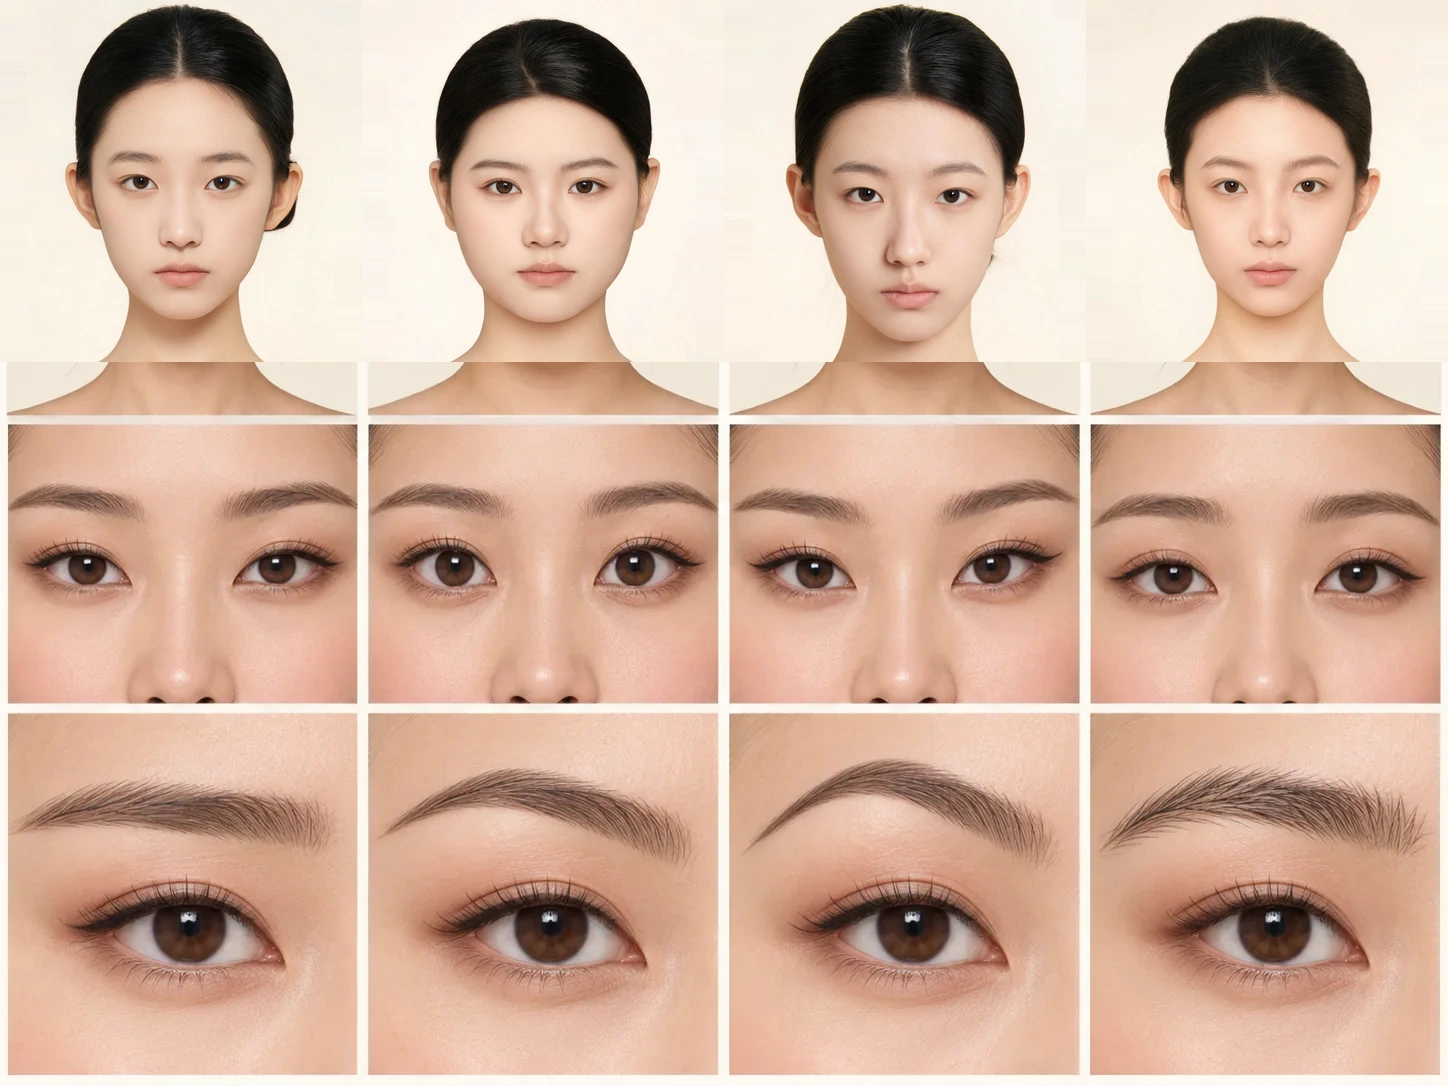
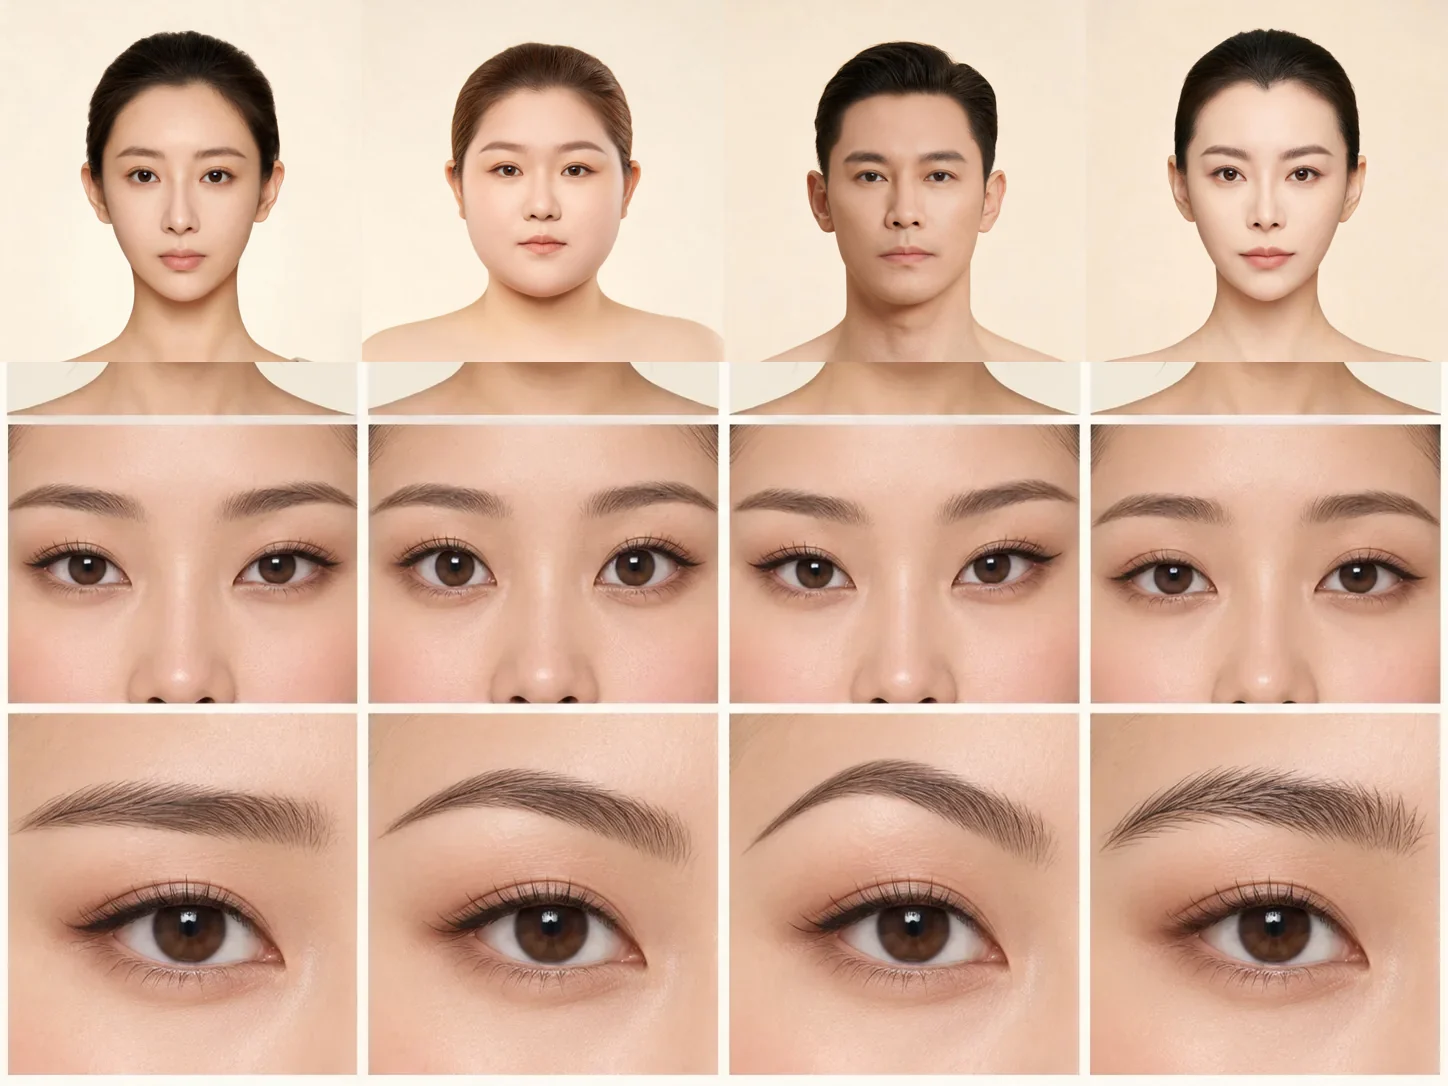
update approved face shape and restrained V silhouette references

diff --git a/recognize.html b/recognize.html
@@ -154,7 +154,7 @@
   <script src="./beauty-data.js?v=3.34"></script>
   <script src="./examples-data.js?v=1.37"></script>
   <script src="./body-data.js?v=1.8.5"></script>
-  <script src="./body-examples.js?v=1.8"></script>
+  <script src="./body-examples.js?v=1.9"></script>
   <script type="module" src="./recognize.js?v=2.0"></script>
   <script>
   (function(){

diff --git a/body-examples.js b/body-examples.js
@@ -21,7 +21,7 @@
     };
   });
 
-  addSheet('body-reference-01-v2-grid.webp', [
+  addSheet('body-reference-01-v3-grid.webp', [
     'H形轮廓','A形轮廓','V形轮廓','X形轮廓',
     'O形轮廓','I形轮廓','8形轮廓','柔和X形轮廓',
     '肩宽于髋','肩髋等宽','肩窄于髋','平直肩线'

diff --git a/body.html b/body.html
@@ -159,7 +159,7 @@
   </dialog>
 
   <script src="./body-data.js?v=1.8.5"></script>
-  <script src="./body-examples.js?v=1.8"></script>
+  <script src="./body-examples.js?v=1.9"></script>
   <script src="./sources-data.js?v=1.12"></script>
   <script src="./body.js?v=1.16"></script>
   <script>

diff --git a/examples-data.js b/examples-data.js
@@ -1,5 +1,5 @@
 (() => {
-  const ASSET_VERSION = '20261020f';
+  const ASSET_VERSION = '20261029a';
   const sheet = (file, col, row, alt) => ({
     file: `./assets/examples/${file}?v=${ASSET_VERSION}`,
     x: ['0%', '33.333%', '66.667%', '100%'][col],
